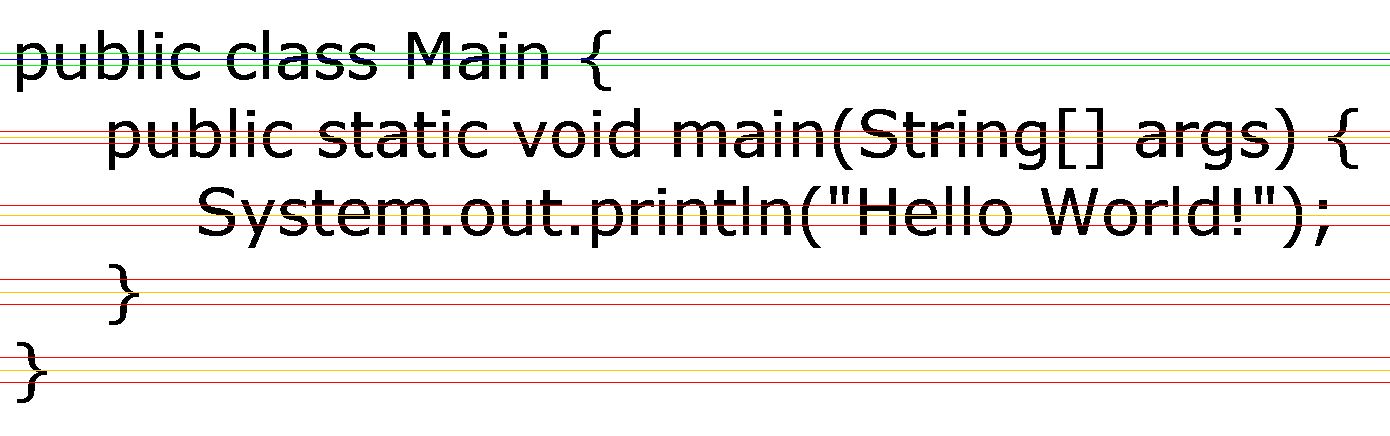
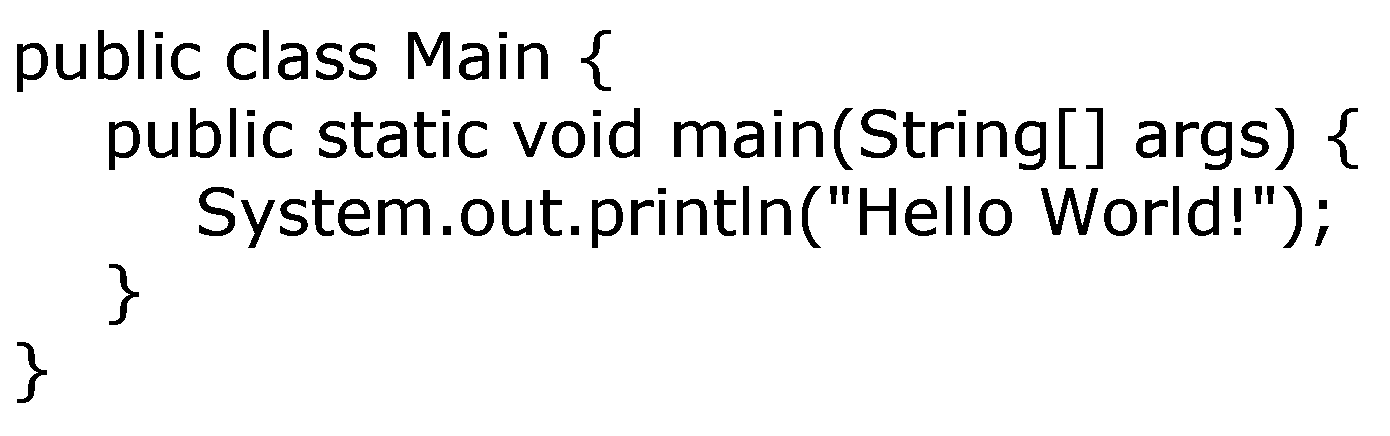
Added line prefixing spaces for code indentation

Changed region(s): [[0.0, 0.2982, 1.0, 0.328], [0.0, 0.1193, 1.0, 0.1491]]

diff --git a/src/main/java/com/uddernetworks/newocr/altsearcher/Main.java b/src/main/java/com/uddernetworks/newocr/altsearcher/Main.java
@@ -125,12 +125,9 @@ public class Main {
 
         Map<Integer, List<DatabaseCharacter>> lines = new LinkedHashMap<>();
 
-        AtomicInteger count = new AtomicInteger(0);
-
         List<DatabaseCharacter> firstList = new LinkedList<>();
         List<DatabaseCharacter> secondList = new LinkedList<>();
 
-        BufferedImage finalInput = input;
         searchLines.values()
                 .stream()
                 .flatMap(List::stream)
@@ -175,16 +172,6 @@ public class Main {
                         int center = tempp.orElseGet(() -> {
                             lines.put(potentialY, new LinkedList<>());
 
-                            if (count.getAndIncrement() == 1) {
-                                colorRow(finalInput, Color.GREEN, (int) (databaseCharacter.getY() + databaseCharacter.getMinCenter()), 0, finalInput.getWidth());
-                                colorRow(finalInput, Color.GREEN, (int) (databaseCharacter.getY() + databaseCharacter.getMaxCenter()), 0, finalInput.getWidth());
-                                colorRow(finalInput, Color.BLUE, potentialY, 0, finalInput.getWidth());
-                            } else {
-                                colorRow(finalInput, Color.RED, (int) (databaseCharacter.getY() + databaseCharacter.getMinCenter()), 0, finalInput.getWidth());
-                                colorRow(finalInput, Color.RED, (int) (databaseCharacter.getY() + databaseCharacter.getMaxCenter()), 0, finalInput.getWidth());
-                                colorRow(finalInput, Color.ORANGE, potentialY, 0, finalInput.getWidth());
-                            }
-
                             return potentialY;
                         });
 
@@ -208,20 +195,12 @@ public class Main {
                 .sorted()
                 .forEach(y -> {
                     List<DatabaseCharacter> databaseCharacters = lines.get(y);
+                    if (databaseCharacters.isEmpty()) return;
                     databaseCharacters.sort(Comparator.comparingInt(DatabaseCharacter::getX));
                     sortedLines.put(y, databaseCharacters);
                 });
 
-        System.out.println("lines = " + lines);
-
-        sortedLines.values().forEach(line -> {
-            if (line.isEmpty()) return;
-            try {
-                line.addAll(getSpacesFor(line, line.stream().mapToInt(DatabaseCharacter::getHeight).max().getAsInt()));
-            } catch (ExecutionException | InterruptedException e) {
-                e.printStackTrace();
-            }
-        });
+        sortedLines.values().forEach(line -> line.addAll(getSpacesFor(line, line.stream().mapToInt(DatabaseCharacter::getHeight).max().getAsInt())));
 
         lines.clear();
         sortedLines.keySet().stream().sorted().forEach(y -> {
@@ -265,39 +244,38 @@ public class Main {
 //        ImageIO.write(temp, "png", new File("E:\\NewOCR\\tempout.png"));
     }
 
-    private static List<DatabaseCharacter> getSpacesFor(List<DatabaseCharacter> line, int fontSize) throws ExecutionException, InterruptedException {
+    private static List<DatabaseCharacter> getSpacesFor(List<DatabaseCharacter> line, int fontSize) {
         List<DatabaseCharacter> ret = new ArrayList<>();
-        FontBounds fontBounds = matchNearestFontSize(fontSize);
-        List<DatabaseCharacter> data = databaseManager.getAllCharacterSegments(fontBounds).get();
-        DatabaseCharacter space = data.stream().filter(databaseCharacter -> databaseCharacter.getLetter() == ' ').findFirst().orElse(null);
-        if (space == null) {
-            System.err.println("No space found for current font size: " + fontSize);
-            return line;
-        }
+        try {
+            FontBounds fontBounds = matchNearestFontSize(fontSize);
+            List<DatabaseCharacter> data = databaseManager.getAllCharacterSegments(fontBounds).get();
+            DatabaseCharacter space = data.stream().filter(databaseCharacter -> databaseCharacter.getLetter() == ' ').findFirst().orElse(null);
+            if (space == null) {
+                System.err.println("No space found for current font size: " + fontSize);
+                return line;
+            }
 
-        DatabaseCharacter prev = null;
-        for (DatabaseCharacter databaseCharacter : line) {
-            if (prev == null) {
+            DatabaseCharacter prev = null;
+            for (DatabaseCharacter databaseCharacter : line) {
+                int leftX = prev == null ? 0 : prev.getX() + prev.getWidth() + 1;
+                int rightX = databaseCharacter.getX();
+                double gap = rightX - leftX;
+
+                double ratio = space.getAvgWidth() / space.getAvgHeight();
+                double usedWidth = ratio * fontSize;
+
+                int spaces = noRoundDownSpace.contains(databaseCharacter.getLetter() + "") ? (int) Math.floor(gap / usedWidth) : spaceRound(gap / usedWidth);
+
+                for (int i = 0; i < spaces; i++) {
+                    DatabaseCharacter insertingSpace = space.copy();
+                    insertingSpace.setX((int) (leftX + (usedWidth * i)));
+                    ret.add(insertingSpace);
+                }
+
                 prev = databaseCharacter;
-                continue;
             }
-
-            int leftX = prev.getX() + prev.getWidth() + 1;
-            int rightX = databaseCharacter.getX();
-            double gap = rightX - leftX;
-
-            double ratio = space.getAvgWidth() / space.getAvgHeight();
-            double usedWidth = ratio * fontSize;
-
-            int spaces = noRoundDownSpace.contains(databaseCharacter.getLetter() + "") ? (int) Math.floor(gap / usedWidth) : spaceRound(gap / usedWidth);
-
-            for (int i = 0; i < spaces; i++) {
-                DatabaseCharacter insertingSpace = space.copy();
-                insertingSpace.setX((int) (leftX + (usedWidth * i)));
-                ret.add(insertingSpace);
-            }
-
-            prev = databaseCharacter;
+        } catch (ExecutionException | InterruptedException e) {
+            e.printStackTrace();
         }
 
         return ret;
@@ -326,9 +304,6 @@ public class Main {
         filter(input);
         toGrid(input, values);
 
-//        ImageIO.write(input, "png", new File("E:\\NewOCR\\binariazed.png"));
-
-//        printOut(values);
         Main.testImageShit = input;
 
         SearchImage searchImage = new SearchImage(values, input.getWidth(), input.getHeight());
@@ -343,29 +318,20 @@ public class Main {
 
         List<Map.Entry<Integer, Integer>> coordinates = new ArrayList<>();
 
-//        List<Double> doubles = new ArrayList<>();
-
         for (int y = input.getHeight(); 0 <= --y; ) {
             for (int x = 0; x < input.getWidth(); x++) {
-                if (getLetterFrom(searchImage, input, x, y, coordinates, searchCharacters)) continue;
+                getLetterFrom(searchImage, input, x, y, coordinates, searchCharacters);
             }
         }
 
-        System.out.println("\t\t\t\t\t\t\tHas dots: " + searchCharacters.stream().filter(searchCharacter -> !searchCharacter.hasDot()).count());
-
-//        searchCharacters.forEach(searchCharacter -> searchCharacter.drawTo());
         System.out.println("CHARS: " + searchCharacters.size());
 
         trainedCharacterDataList.values().forEach(dataList -> {
             IntStream.range('!', '~' + 1).forEach(letter -> dataList.add(new TrainedCharacterData((char) letter)));
-//            dataList.add(new TrainedCharacterData((char) 1));
             dataList.add(new TrainedCharacterData(' '));
-//            dataList.add(new TrainedCharacterData((char) 2));
         });
 
-//        int maxWidth = searchCharacters.stream().mapToInt(SearchCharacter::getHeight).max().getAsInt();
-
-        BufferedImage finalInput = input;
+//        BufferedImage finalInput = input;
 //        searchCharacters.stream().sorted().forEach(searchCharacter -> searchCharacter.drawTo(finalInput));
         Collections.sort(searchCharacters);
 
@@ -429,17 +395,15 @@ public class Main {
                         searchCharacter.setKnownChar(current);
                     }
 
-                    searchCharacter.drawTo(finalInput, TEMP[inc++]);
-                    if (inc >= 3) inc = 0;
+//                    searchCharacter.drawTo(finalInput, TEMP[inc++]);
+//                    if (inc >= 3) inc = 0;
 
                     trainedSearchCharacter.recalculateTo(searchCharacter);
 
                         double halfOfLineHeight = ((double) lineBound.getValue() - (double) lineBound.getKey()) / 2;
                         double middleToTopChar = (double) searchCharacter.getY() - (double) lineBound.getKey();
                         double topOfLetterToCenter = halfOfLineHeight - middleToTopChar;
-//
-                        colorRow(finalInput, Color.RED, (int) (searchCharacter.getY() + topOfLetterToCenter), searchCharacter.getX(), searchCharacter.getWidth());
-//
+
                         trainedSearchCharacter.recalculateCenter(topOfLetterToCenter); // This NOW gets offset from top of
                         trainedSearchCharacter.setHasDot(searchCharacter.hasDot());
                         trainedSearchCharacter.setLetterMeta(searchCharacter.getLetterMeta());
@@ -1009,10 +973,8 @@ public class Main {
 
     private static boolean doPercentStuff(SearchCharacter percentDotCharacter, List<Map.Entry<Integer, Integer>> coordinates, List<SearchCharacter> searchCharacters) {
         if (!percentDotCharacter.isProbablyCircleOfPercent()) return false;
-        System.out.println("Is circle");
         SearchCharacter baseCharacter = getBaseForPercent(searchCharacters, percentDotCharacter).orElse(null);
         if (baseCharacter != null) {
-            System.out.println("NN");
             combine(baseCharacter, percentDotCharacter, coordinates, CombineMethod.PERCENTAGE_CIRCLE, LetterMeta.PERCENT);
             baseCharacter.setHasDot(true);
             percentDotCharacter.setHasDot(true);
@@ -1036,7 +998,6 @@ public class Main {
     }
 
     private static void combine(SearchCharacter baseCharacter, SearchCharacter adding, List<Map.Entry<Integer, Integer>> coordinates, CombineMethod combineMethod, LetterMeta letterMeta) {
-        System.out.println("Combining: " + letterMeta);
         int minX = Math.min(baseCharacter.getX(), adding.getX());
         int minY = Math.min(baseCharacter.getY(), adding.getY());
         int maxX = Math.max(baseCharacter.getX() + baseCharacter.getWidth(), adding.getX() + adding.getWidth());
@@ -1064,7 +1025,6 @@ public class Main {
                 baseCharacter.addDot(coordinates);
                 break;
             case PERCENTAGE_CIRCLE:
-//                baseCharacter.addPercentageCircle(coordinates, adding.getY() + (adding.getHeight() / 2) < baseCharacter.getY() + (baseCharacter.getHeight() / 2));
                 baseCharacter.addPercentageCircle(coordinates, Main.isWithin(adding.getY(), baseCharacter.getY(), (double) baseCharacter.getHeight() / 10D));
                 break;
             case APOSTROPHE:
@@ -1113,19 +1073,13 @@ public class Main {
                 .filter(character -> !character.hasDot())
                 .filter(character -> topDot.isInXBounds(character.getX() + (character.getWidth() / 2)))
                 .filter(character -> {
-//                    System.out.println("Got to!!!!!!!!!!!!!!!!!!!!!!!!!!!!!");
                     double ratio = (double) topDot.getHeight() / (double) character.getHeight();
-//                    System.out.println("ratio = " + ratio);
                     if (character.getWidth() * 2 < topDot.getWidth()) return false;
                     return (ratio >= 0.25 && ratio <= 0.5) || (topDot.getHeight() == character.getHeight() && topDot.getWidth() == character.getWidth());
                 })
                 .filter(bottomCharacter -> {
-//                    int below = bottomCharacter.getY() - bottomCharacter.getHeight() * 2;
                     double mult = ((double) bottomCharacter.getWidth() / (double) bottomCharacter.getHeight() > 3 && Arrays.deepEquals(bottomCharacter.getValues(), topDot.getValues())) ? 5 : 5;
                     int mod = (int) (topDot.getHeight() * mult);
-
-//                    System.out.println("mult = " + mult);
-//                    System.out.println("mod = " + mod);
 
                     return checkDifference(bottomCharacter.getY(), topDot.getY() + topDot.getHeight(), mod + 1);
                 })
@@ -1140,26 +1094,11 @@ public class Main {
                     boolean[][] values = character.getValues();
                     boolean[][] values2 = rightApostrophe.getValues();
                     if (values.length != values2.length || values[0].length != values2[0].length) return false;
-//                    for (int x = 0; x < values.length; x++) {
-//                        for (int y = 0; y < values[x].length; y++) {
-//                            if (values[x][y] != values2[x][y]) return false;
-//                        }
-//                    }
 
                     double diff = getDifferencesFrom2D(values, values2);
-//                    System.out.println("===============================");
-//                    for (int i = 0; i < 10; i++) {
-//                        System.out.println("diff = " + diff);
-//                    }
-//                    System.out.println("===============================");
                     return diff <= 0.05; // If it's at least 5% similar
                 })
-                .filter(character -> {
-                    double xDiff = Math.max(character.getX(), rightApostrophe.getX()) - Math.min(character.getX(), rightApostrophe.getX()) - rightApostrophe.getWidth();
-                    double acceptedDiff = ((double) rightApostrophe.getWidth());
-//                    return xDiff < acceptedDiff;
-                    return isWithin(character.getX() + character.getWidth(), rightApostrophe.getX(), rightApostrophe.getWidth() - 1D, ((double) rightApostrophe.getWidth() * 1.1D) + 4D);
-                })
+                .filter(character -> isWithin(character.getX() + character.getWidth(), rightApostrophe.getX(), rightApostrophe.getWidth() - 1D, ((double) rightApostrophe.getWidth() * 1.1D) + 4D))
                 .findFirst();
     }
 
@@ -1236,7 +1175,6 @@ public class Main {
     private static boolean isBlack(BufferedImage image, int x, int y) {
         try {
             Color pixel = new Color(image.getRGB(x, y));
-//            System.out.println(pixel);
             return (pixel.getRed() + pixel.getGreen() + pixel.getBlue()) / 3 < 255 * 0.75;
         } catch (ArrayIndexOutOfBoundsException e) {
             return true;
